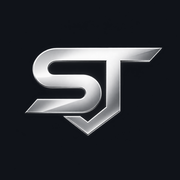
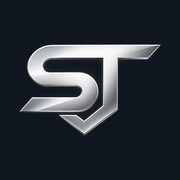
Unify portfolio branding and link sharing

Changed region(s): [[0.1111, 0.2222, 0.9167, 0.75]]

diff --git a/index.html b/index.html
@@ -13,25 +13,26 @@
   <meta property="og:title" content="Saif Thabet | Software Engineer &amp; Frontend Developer" />
   <meta property="og:description" content="Saif Thabet is a software engineer and frontend developer based in Sana’a, Yemen. Explore his web projects, professional experience, and contact details." />
   <meta property="og:url" content="https://www.saifthabet.tech/" />
-  <meta property="og:image" content="https://www.saifthabet.tech/social-preview.jpg" />
+  <meta property="og:image" content="https://www.saifthabet.tech/saif-thabet-share.jpg" />
+  <meta property="og:image:type" content="image/jpeg" />
   <meta property="og:image:width" content="1200" />
   <meta property="og:image:height" content="630" />
-  <meta property="og:image:alt" content="Saif Thabet software engineer and frontend developer portfolio" />
+  <meta property="og:image:alt" content="Saif Thabet’s silver monogram and name on a charcoal portfolio card" />
   <meta property="og:site_name" content="Saif Thabet" />
 
   <meta name="twitter:card" content="summary_large_image" />
   <meta name="twitter:title" content="Saif Thabet | Software Engineer &amp; Frontend Developer" />
   <meta name="twitter:description" content="Saif Thabet is a software engineer and frontend developer based in Sana’a, Yemen. Explore his web projects, professional experience, and contact details." />
-  <meta name="twitter:image" content="https://www.saifthabet.tech/social-preview.jpg" />
-  <meta name="twitter:image:alt" content="Saif Thabet software engineer and frontend developer portfolio" />
+  <meta name="twitter:image" content="https://www.saifthabet.tech/saif-thabet-share.jpg" />
+  <meta name="twitter:image:alt" content="Saif Thabet’s silver monogram and name on a charcoal portfolio card" />
 
   <link rel="icon" href="/favicon.ico" sizes="any" />
   <link rel="icon" href="/favicon-512-optimized.png" type="image/png" sizes="512x512" />
   <link rel="apple-touch-icon" href="/apple-touch-icon.png" />
   <script type="application/ld+json">{"@context":"https://schema.org","@graph":[{"@type":"WebSite","@id":"https://www.saifthabet.tech/#website","name":"Saif Thabet","alternateName":["Saif Thabet Portfolio","سيف ثابت"],"url":"https://www.saifthabet.tech/","inLanguage":"en"},{"@type":"ProfilePage","@id":"https://www.saifthabet.tech/#profile","url":"https://www.saifthabet.tech/","name":"Saif Thabet | Software Engineer & Frontend Developer","description":"Saif Thabet is a software engineer and frontend developer based in Sana’a, Yemen. Explore his web projects, professional experience, and contact details.","isPartOf":{"@id":"https://www.saifthabet.tech/#website"},"mainEntity":{"@type":"Person","@id":"https://www.saifthabet.tech/#saif-thabet","name":"Saif Thabet","alternateName":"سيف ثابت","url":"https://www.saifthabet.tech/","jobTitle":"Software Engineer & Frontend Developer","homeLocation":{"@type":"Place","name":"Sana’a, Yemen"},"sameAs":["https://www.linkedin.com/in/saif-thabet-25a2702a6"]}}]}</script>
   <script src="/theme-init.js?v=37463a6e34d6"></script>
-  <link rel="stylesheet" href="/style.css?v=f05631fffd4a" />
-  <script src="/script.js?v=9ddbfe4f2768" defer></script>
+  <link rel="stylesheet" href="/style.css?v=b861592a74d5" />
+  <script src="/script.js?v=705cfee3a3c9" defer></script>
 </head>
 <body id="top" data-page="hero">
   <a class="skip-link" href="#main-content">Skip to main content</a>
@@ -186,9 +187,17 @@
         <p class="footer__copy">
           &copy; <span id="year">2026</span> Saif Thabet
         </p>
-        <a href="#top" class="footer__top" aria-label="Back to top">
-          <svg class="icon" xmlns="http://www.w3.org/2000/svg" viewBox="0 0 24 24" width="24" height="24" fill="none" stroke="currentColor" stroke-width="1.8" stroke-linecap="round" stroke-linejoin="round" aria-hidden="true" focusable="false"><path d="m5 12 7-7 7 7"/><path d="M12 19V5"/></svg>
-        </a>
+        <div class="footer__actions">
+          <button class="btn btn--outline btn--sm" id="sharePortfolio" type="button" hidden>Share portfolio</button>
+          <a href="#top" class="footer__top" aria-label="Back to top">
+            <svg class="icon" xmlns="http://www.w3.org/2000/svg" viewBox="0 0 24 24" width="24" height="24" fill="none" stroke="currentColor" stroke-width="1.8" stroke-linecap="round" stroke-linejoin="round" aria-hidden="true" focusable="false"><path d="m5 12 7-7 7 7"/><path d="M12 19V5"/></svg>
+          </a>
+        </div>
+      </div>
+      <p class="footer__share-status" id="shareStatus" role="status"></p>
+      <div class="footer__share-link" id="shareFallback" hidden>
+        <label for="shareUrl">Portfolio link</label>
+        <input id="shareUrl" type="url" value="https://www.saifthabet.tech/" readonly />
       </div>
     </div>
   </footer>

diff --git a/work.html b/work.html
@@ -13,25 +13,26 @@
   <meta property="og:title" content="Work &amp; Services | Saif Thabet" />
   <meta property="og:description" content="Explore Saif Thabet’s selected website and application projects, web development services, and ways to collaborate." />
   <meta property="og:url" content="https://www.saifthabet.tech/work" />
-  <meta property="og:image" content="https://www.saifthabet.tech/social-preview.jpg" />
+  <meta property="og:image" content="https://www.saifthabet.tech/saif-thabet-share.jpg" />
+  <meta property="og:image:type" content="image/jpeg" />
   <meta property="og:image:width" content="1200" />
   <meta property="og:image:height" content="630" />
-  <meta property="og:image:alt" content="Saif Thabet software engineer and frontend developer portfolio" />
+  <meta property="og:image:alt" content="Saif Thabet’s silver monogram and name on a charcoal portfolio card" />
   <meta property="og:site_name" content="Saif Thabet" />
 
   <meta name="twitter:card" content="summary_large_image" />
   <meta name="twitter:title" content="Work &amp; Services | Saif Thabet" />
   <meta name="twitter:description" content="Explore Saif Thabet’s selected website and application projects, web development services, and ways to collaborate." />
-  <meta name="twitter:image" content="https://www.saifthabet.tech/social-preview.jpg" />
-  <meta name="twitter:image:alt" content="Saif Thabet software engineer and frontend developer portfolio" />
+  <meta name="twitter:image" content="https://www.saifthabet.tech/saif-thabet-share.jpg" />
+  <meta name="twitter:image:alt" content="Saif Thabet’s silver monogram and name on a charcoal portfolio card" />
 
   <link rel="icon" href="/favicon.ico" sizes="any" />
   <link rel="icon" href="/favicon-512-optimized.png" type="image/png" sizes="512x512" />
   <link rel="apple-touch-icon" href="/apple-touch-icon.png" />
 
   <script src="/theme-init.js?v=37463a6e34d6"></script>
-  <link rel="stylesheet" href="/style.css?v=f05631fffd4a" />
-  <script src="/script.js?v=9ddbfe4f2768" defer></script>
+  <link rel="stylesheet" href="/style.css?v=b861592a74d5" />
+  <script src="/script.js?v=705cfee3a3c9" defer></script>
 </head>
 <body id="top" data-page="work">
   <a class="skip-link" href="#main-content">Skip to main content</a>
@@ -238,9 +239,17 @@
         <p class="footer__copy">
           &copy; <span id="year">2026</span> Saif Thabet
         </p>
-        <a href="#top" class="footer__top" aria-label="Back to top">
-          <svg class="icon" xmlns="http://www.w3.org/2000/svg" viewBox="0 0 24 24" width="24" height="24" fill="none" stroke="currentColor" stroke-width="1.8" stroke-linecap="round" stroke-linejoin="round" aria-hidden="true" focusable="false"><path d="m5 12 7-7 7 7"/><path d="M12 19V5"/></svg>
-        </a>
+        <div class="footer__actions">
+          <button class="btn btn--outline btn--sm" id="sharePortfolio" type="button" hidden>Share portfolio</button>
+          <a href="#top" class="footer__top" aria-label="Back to top">
+            <svg class="icon" xmlns="http://www.w3.org/2000/svg" viewBox="0 0 24 24" width="24" height="24" fill="none" stroke="currentColor" stroke-width="1.8" stroke-linecap="round" stroke-linejoin="round" aria-hidden="true" focusable="false"><path d="m5 12 7-7 7 7"/><path d="M12 19V5"/></svg>
+          </a>
+        </div>
+      </div>
+      <p class="footer__share-status" id="shareStatus" role="status"></p>
+      <div class="footer__share-link" id="shareFallback" hidden>
+        <label for="shareUrl">Portfolio link</label>
+        <input id="shareUrl" type="url" value="https://www.saifthabet.tech/" readonly />
       </div>
     </div>
   </footer>

diff --git a/experience.html b/experience.html
@@ -13,25 +13,26 @@
   <meta property="og:title" content="Experience &amp; Skills | Saif Thabet" />
   <meta property="og:description" content="Explore Saif Thabet’s professional experience, education and technical skills, and download his CV." />
   <meta property="og:url" content="https://www.saifthabet.tech/experience" />
-  <meta property="og:image" content="https://www.saifthabet.tech/social-preview.jpg" />
+  <meta property="og:image" content="https://www.saifthabet.tech/saif-thabet-share.jpg" />
+  <meta property="og:image:type" content="image/jpeg" />
   <meta property="og:image:width" content="1200" />
   <meta property="og:image:height" content="630" />
-  <meta property="og:image:alt" content="Saif Thabet software engineer and frontend developer portfolio" />
+  <meta property="og:image:alt" content="Saif Thabet’s silver monogram and name on a charcoal portfolio card" />
   <meta property="og:site_name" content="Saif Thabet" />
 
   <meta name="twitter:card" content="summary_large_image" />
   <meta name="twitter:title" content="Experience &amp; Skills | Saif Thabet" />
   <meta name="twitter:description" content="Explore Saif Thabet’s professional experience, education and technical skills, and download his CV." />
-  <meta name="twitter:image" content="https://www.saifthabet.tech/social-preview.jpg" />
-  <meta name="twitter:image:alt" content="Saif Thabet software engineer and frontend developer portfolio" />
+  <meta name="twitter:image" content="https://www.saifthabet.tech/saif-thabet-share.jpg" />
+  <meta name="twitter:image:alt" content="Saif Thabet’s silver monogram and name on a charcoal portfolio card" />
 
   <link rel="icon" href="/favicon.ico" sizes="any" />
   <link rel="icon" href="/favicon-512-optimized.png" type="image/png" sizes="512x512" />
   <link rel="apple-touch-icon" href="/apple-touch-icon.png" />
 
   <script src="/theme-init.js?v=37463a6e34d6"></script>
-  <link rel="stylesheet" href="/style.css?v=f05631fffd4a" />
-  <script src="/script.js?v=9ddbfe4f2768" defer></script>
+  <link rel="stylesheet" href="/style.css?v=b861592a74d5" />
+  <script src="/script.js?v=705cfee3a3c9" defer></script>
 </head>
 <body id="top" data-page="experience">
   <a class="skip-link" href="#main-content">Skip to main content</a>
@@ -216,9 +217,17 @@
         <p class="footer__copy">
           &copy; <span id="year">2026</span> Saif Thabet
         </p>
-        <a href="#top" class="footer__top" aria-label="Back to top">
-          <svg class="icon" xmlns="http://www.w3.org/2000/svg" viewBox="0 0 24 24" width="24" height="24" fill="none" stroke="currentColor" stroke-width="1.8" stroke-linecap="round" stroke-linejoin="round" aria-hidden="true" focusable="false"><path d="m5 12 7-7 7 7"/><path d="M12 19V5"/></svg>
-        </a>
+        <div class="footer__actions">
+          <button class="btn btn--outline btn--sm" id="sharePortfolio" type="button" hidden>Share portfolio</button>
+          <a href="#top" class="footer__top" aria-label="Back to top">
+            <svg class="icon" xmlns="http://www.w3.org/2000/svg" viewBox="0 0 24 24" width="24" height="24" fill="none" stroke="currentColor" stroke-width="1.8" stroke-linecap="round" stroke-linejoin="round" aria-hidden="true" focusable="false"><path d="m5 12 7-7 7 7"/><path d="M12 19V5"/></svg>
+          </a>
+        </div>
+      </div>
+      <p class="footer__share-status" id="shareStatus" role="status"></p>
+      <div class="footer__share-link" id="shareFallback" hidden>
+        <label for="shareUrl">Portfolio link</label>
+        <input id="shareUrl" type="url" value="https://www.saifthabet.tech/" readonly />
       </div>
     </div>
   </footer>

diff --git a/contact.html b/contact.html
@@ -13,25 +13,26 @@
   <meta property="og:title" content="Contact | Saif Thabet" />
   <meta property="og:description" content="Contact Saif Thabet to discuss a website, frontend development project or collaboration." />
   <meta property="og:url" content="https://www.saifthabet.tech/contact" />
-  <meta property="og:image" content="https://www.saifthabet.tech/social-preview.jpg" />
+  <meta property="og:image" content="https://www.saifthabet.tech/saif-thabet-share.jpg" />
+  <meta property="og:image:type" content="image/jpeg" />
   <meta property="og:image:width" content="1200" />
   <meta property="og:image:height" content="630" />
-  <meta property="og:image:alt" content="Saif Thabet software engineer and frontend developer portfolio" />
+  <meta property="og:image:alt" content="Saif Thabet’s silver monogram and name on a charcoal portfolio card" />
   <meta property="og:site_name" content="Saif Thabet" />
 
   <meta name="twitter:card" content="summary_large_image" />
   <meta name="twitter:title" content="Contact | Saif Thabet" />
   <meta name="twitter:description" content="Contact Saif Thabet to discuss a website, frontend development project or collaboration." />
-  <meta name="twitter:image" content="https://www.saifthabet.tech/social-preview.jpg" />
-  <meta name="twitter:image:alt" content="Saif Thabet software engineer and frontend developer portfolio" />
+  <meta name="twitter:image" content="https://www.saifthabet.tech/saif-thabet-share.jpg" />
+  <meta name="twitter:image:alt" content="Saif Thabet’s silver monogram and name on a charcoal portfolio card" />
 
   <link rel="icon" href="/favicon.ico" sizes="any" />
   <link rel="icon" href="/favicon-512-optimized.png" type="image/png" sizes="512x512" />
   <link rel="apple-touch-icon" href="/apple-touch-icon.png" />
 
   <script src="/theme-init.js?v=37463a6e34d6"></script>
-  <link rel="stylesheet" href="/style.css?v=f05631fffd4a" />
-  <script src="/script.js?v=9ddbfe4f2768" defer></script>
+  <link rel="stylesheet" href="/style.css?v=b861592a74d5" />
+  <script src="/script.js?v=705cfee3a3c9" defer></script>
 </head>
 <body id="top" data-page="contact">
   <a class="skip-link" href="#main-content">Skip to main content</a>
@@ -147,9 +148,17 @@
         <p class="footer__copy">
           &copy; <span id="year">2026</span> Saif Thabet
         </p>
-        <a href="#top" class="footer__top" aria-label="Back to top">
-          <svg class="icon" xmlns="http://www.w3.org/2000/svg" viewBox="0 0 24 24" width="24" height="24" fill="none" stroke="currentColor" stroke-width="1.8" stroke-linecap="round" stroke-linejoin="round" aria-hidden="true" focusable="false"><path d="m5 12 7-7 7 7"/><path d="M12 19V5"/></svg>
-        </a>
+        <div class="footer__actions">
+          <button class="btn btn--outline btn--sm" id="sharePortfolio" type="button" hidden>Share portfolio</button>
+          <a href="#top" class="footer__top" aria-label="Back to top">
+            <svg class="icon" xmlns="http://www.w3.org/2000/svg" viewBox="0 0 24 24" width="24" height="24" fill="none" stroke="currentColor" stroke-width="1.8" stroke-linecap="round" stroke-linejoin="round" aria-hidden="true" focusable="false"><path d="m5 12 7-7 7 7"/><path d="M12 19V5"/></svg>
+          </a>
+        </div>
+      </div>
+      <p class="footer__share-status" id="shareStatus" role="status"></p>
+      <div class="footer__share-link" id="shareFallback" hidden>
+        <label for="shareUrl">Portfolio link</label>
+        <input id="shareUrl" type="url" value="https://www.saifthabet.tech/" readonly />
       </div>
     </div>
   </footer>

diff --git a/source/layout.html b/source/layout.html
@@ -13,17 +13,18 @@
   <meta property="og:title" content="{{TITLE}}" />
   <meta property="og:description" content="{{DESCRIPTION}}" />
   <meta property="og:url" content="{{URL}}" />
-  <meta property="og:image" content="https://www.saifthabet.tech/social-preview.jpg" />
+  <meta property="og:image" content="{{SHARE_IMAGE_URL}}" />
+  <meta property="og:image:type" content="image/jpeg" />
   <meta property="og:image:width" content="1200" />
   <meta property="og:image:height" content="630" />
-  <meta property="og:image:alt" content="Saif Thabet software engineer and frontend developer portfolio" />
+  <meta property="og:image:alt" content="Saif Thabet’s silver monogram and name on a charcoal portfolio card" />
   <meta property="og:site_name" content="Saif Thabet" />
 
   <meta name="twitter:card" content="summary_large_image" />
   <meta name="twitter:title" content="{{TITLE}}" />
   <meta name="twitter:description" content="{{DESCRIPTION}}" />
-  <meta name="twitter:image" content="https://www.saifthabet.tech/social-preview.jpg" />
-  <meta name="twitter:image:alt" content="Saif Thabet software engineer and frontend developer portfolio" />
+  <meta name="twitter:image" content="{{SHARE_IMAGE_URL}}" />
+  <meta name="twitter:image:alt" content="Saif Thabet’s silver monogram and name on a charcoal portfolio card" />
 
   <link rel="icon" href="/favicon.ico" sizes="any" />
   <link rel="icon" href="/favicon-512-optimized.png" type="image/png" sizes="512x512" />
@@ -74,9 +75,17 @@
         <p class="footer__copy">
           &copy; <span id="year">{{YEAR}}</span> Saif Thabet
         </p>
-        <a href="#top" class="footer__top" aria-label="Back to top">
-          <svg class="icon" xmlns="http://www.w3.org/2000/svg" viewBox="0 0 24 24" width="24" height="24" fill="none" stroke="currentColor" stroke-width="1.8" stroke-linecap="round" stroke-linejoin="round" aria-hidden="true" focusable="false"><path d="m5 12 7-7 7 7"/><path d="M12 19V5"/></svg>
-        </a>
+        <div class="footer__actions">
+          <button class="btn btn--outline btn--sm" id="sharePortfolio" type="button" hidden>Share portfolio</button>
+          <a href="#top" class="footer__top" aria-label="Back to top">
+            <svg class="icon" xmlns="http://www.w3.org/2000/svg" viewBox="0 0 24 24" width="24" height="24" fill="none" stroke="currentColor" stroke-width="1.8" stroke-linecap="round" stroke-linejoin="round" aria-hidden="true" focusable="false"><path d="m5 12 7-7 7 7"/><path d="M12 19V5"/></svg>
+          </a>
+        </div>
+      </div>
+      <p class="footer__share-status" id="shareStatus" role="status"></p>
+      <div class="footer__share-link" id="shareFallback" hidden>
+        <label for="shareUrl">Portfolio link</label>
+        <input id="shareUrl" type="url" value="{{HOME_URL}}" readonly />
       </div>
     </div>
   </footer>

diff --git a/style.css b/style.css
@@ -186,37 +186,31 @@ button { cursor: pointer; border: none; background: none; }
   background: rgba(245,243,238,0.85);
 }
 
-/* Logo */
-.nav__logo {
-  display: flex; align-items: center; gap: 8px;
-  font-family: var(--font-mono);
-  font-size: 15px;
-  font-weight: 500;
-  letter-spacing: 0.05em;
-}
-/* Original supplied artwork, framed to remove only its empty outer spacing. */
 .nav__logo--image {
   position: relative;
-  width: 96px;
-  height: 60px;
-  flex: 0 0 96px;
+  width: 88px;
+  height: 54px;
+  flex: 0 0 88px;
   overflow: hidden;
+  border: 1px solid #343843;
   border-radius: 12px;
+  background: linear-gradient(155deg, #222933, #101319 76%);
 }
 .nav__brand-image {
   position: absolute;
-  width: 96px;
-  height: 96px;
+  inset: 50% auto auto 50%;
+  width: 84px;
+  height: 84px;
   max-width: none;
-  left: 0;
-  top: -18px;
+  transform: translate(-50%, -50%);
   object-fit: contain;
 }
+.nav__logo--image:hover { border-color: var(--accent); }
 .nav__logo--image:focus-visible { outline: 2px solid var(--accent); outline-offset: 2px; }
-[data-theme="light"] .nav__logo--image { background: #101319; }
+[data-theme="light"] .nav__logo--image { box-shadow: 0 2px 7px rgba(26,28,34,0.18); }
 @media (max-width: 480px) {
-  .nav__logo--image { width: 88px; height: 56px; flex-basis: 88px; }
-  .nav__brand-image { width: 88px; height: 88px; top: -16px; }
+  .nav__logo--image { width: 76px; height: 48px; flex-basis: 76px; }
+  .nav__brand-image { width: 72px; height: 72px; }
 }
 
 /* Gold spotlight navigation: shared desktop pill and mobile dock language. */
@@ -1147,6 +1141,20 @@ body:not([data-page="hero"]) main > .section:first-child {
   font-size: 14px;
 }
 .footer__name { color: var(--text-2); }
+.footer__actions { display: flex; align-items: center; gap: 12px; }
+.footer__actions [hidden] { display: none; }
+.footer__share-status:not(:empty) { margin-top: 14px; }
+.footer__share-status { color: var(--text-2); }
+.footer__share-link:not([hidden]) { display: grid; gap: 8px; margin-top: 12px; max-width: 340px; }
+.footer__share-link input {
+  width: 100%;
+  padding: 10px 12px;
+  border: 1px solid var(--control-border);
+  border-radius: 8px;
+  background: var(--surface);
+  color: var(--text);
+  font: inherit;
+}
 
 .footer__copy {
   font-size: 13px; color: var(--text-3);

diff --git a/script.js b/script.js
@@ -1,4 +1,4 @@
-// Global navigation, theme, and contact form for the static portfolio.
+// Global navigation, theme, sharing, and contact form for the static portfolio.
 'use strict';
 
 const html = document.documentElement;
@@ -83,6 +83,36 @@ themeToggle.addEventListener('click', () => {
 syncThemeControls();
 html.dataset.enhanced = '';
 document.getElementById('year').textContent = new Date().getFullYear();
+
+const shareButton = document.getElementById('sharePortfolio');
+const shareStatus = document.getElementById('shareStatus');
+const shareFallback = document.getElementById('shareFallback');
+const shareUrl = document.getElementById('shareUrl');
+
+shareButton.hidden = false;
+shareButton.addEventListener('click', async () => {
+  shareStatus.textContent = '';
+  shareFallback.hidden = true;
+  const url = shareUrl.value;
+  if (navigator.share) {
+    try {
+      await navigator.share({ title: 'Saif Thabet', url });
+      return;
+    } catch (error) {
+      if (error.name === 'AbortError') return;
+    }
+  }
+
+  try {
+    await navigator.clipboard.writeText(url);
+    shareStatus.textContent = 'Portfolio link copied.';
+  } catch {
+    shareFallback.hidden = false;
+    shareUrl.focus();
+    shareUrl.select();
+    shareStatus.textContent = 'Copy the selected portfolio link.';
+  }
+});
 
 // The decorative constellation settles after a few seconds and stays still.
 const canvas = document.getElementById('heroCanvas');
